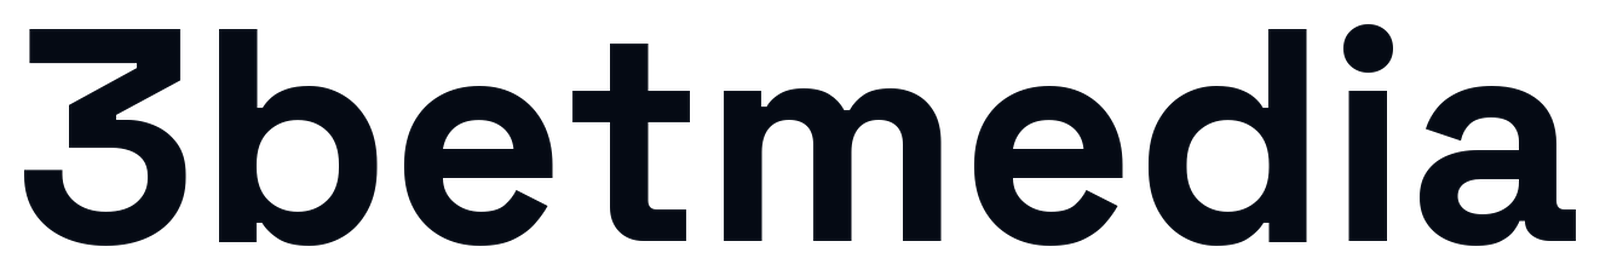
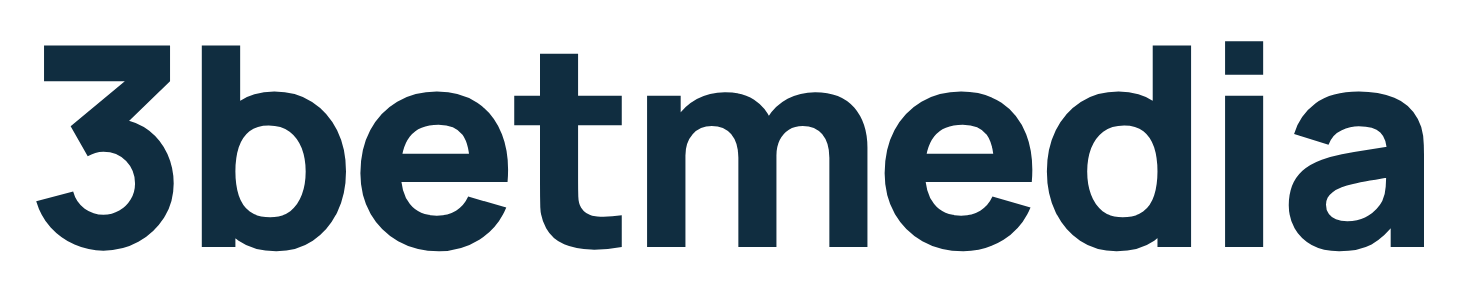
Rebrand press kit to the ice identity
Manrope wordmark, ice palette, ice chip and social card from the live site, current homepage copy and services.

diff --git a/index.html b/index.html
@@ -4,99 +4,153 @@
 <meta charset="utf-8">
 <meta name="viewport" content="width=device-width, initial-scale=1">
 <title>3betmedia Press Kit</title>
-<meta name="description" content="Press kit for 3betmedia, the iGaming and Web3 content agency. Logos, brand colours, services and contact.">
-<link rel="icon" href="assets/3betmedia-favicon.svg" type="image/svg+xml">
+<meta name="description" content="Press kit for 3betmedia, the content engine for iGaming and Web3. Logos, brand colours, services and contact.">
+<link rel="icon" href="assets/favicon-ice-v3-32.png" type="image/png" sizes="32x32">
+<link rel="apple-touch-icon" href="assets/apple-touch-icon-ice-v3.png">
 <link rel="canonical" href="https://bitmamba24.github.io/3betmedia-press-kit/">
 <meta property="og:title" content="3betmedia Press Kit">
-<meta property="og:description" content="Logos, brand colours, services and contact for 3betmedia, the iGaming and Web3 content agency.">
-<meta property="og:image" content="https://bitmamba24.github.io/3betmedia-press-kit/assets/social-card.png">
+<meta property="og:description" content="Logos, brand colours, services and contact for 3betmedia, the content engine for iGaming and Web3.">
+<meta property="og:image" content="https://bitmamba24.github.io/3betmedia-press-kit/assets/social-card.jpg">
 <link rel="preconnect" href="https://fonts.googleapis.com">
-<link href="https://fonts.googleapis.com/css2?family=Space+Grotesk:wght@600;700&family=Geist:wght@400;500&display=swap" rel="stylesheet">
+<link rel="preconnect" href="https://fonts.gstatic.com" crossorigin>
+<link href="https://fonts.googleapis.com/css2?family=Manrope:wght@400;500;600;700;800&display=swap" rel="stylesheet">
 <style>
-  :root { --bg:#050A14; --bg2:#0B1421; --card:#111E2F; --fg:#F2F6FA; --muted:#B9CADC; --steel:#8FA1B5; --line:#263447; --accent:#C3DCF0; --ink:#061020; }
+  :root { --bg:#e8f0f3; --panel:#f3f6f5; --card:#f3f8fa; --fg:#142c3b; --muted:#526675; --soft:#7191a2; --line:#9cb2bf55; --btn:#16374b; --btn-hover:#285774; --btn-fg:#f4fbff; --focus:#3b94c1; }
   * { box-sizing:border-box; }
-  body { margin:0; background:var(--bg); color:var(--fg); font:16px/1.6 Geist,system-ui,-apple-system,"Segoe UI",sans-serif; }
-  main { max-width:760px; margin:0 auto; padding:48px 16px 80px; }
-  h1, h2, h3 { font-family:"Space Grotesk",system-ui,sans-serif; letter-spacing:-0.02em; }
-  h1 { font-size:2.2rem; margin:28px 0 4px; }
-  h2 { font-size:1.2rem; margin:44px 0 12px; padding-top:18px; border-top:1px solid var(--line); }
-  h3 { font-size:1rem; margin:0 0 4px; }
+  body { margin:0; background:var(--bg); color:var(--fg); font:16px/1.6 Manrope,Arial,sans-serif; -webkit-font-smoothing:antialiased; }
+  a { color:inherit; }
+  a:focus-visible { outline:3px solid var(--focus); outline-offset:4px; }
+  header { display:flex; justify-content:space-between; align-items:center; gap:16px; padding:28px 5.5vw; }
+  .wordmark { font-size:32px; font-weight:800; letter-spacing:-1px; text-decoration:none; }
+  .nav-contact { padding:11px 17px; border:1px solid #18354845; border-radius:2px; font-size:13px; font-weight:600; text-decoration:none; }
+  main { max-width:880px; margin:0 auto; padding:40px 16px 80px; }
+  .eyebrow { font-size:10px; letter-spacing:.14em; font-weight:700; text-transform:uppercase; margin:0 0 18px; }
+  h1, h2 { font-weight:500; letter-spacing:-.06em; line-height:1.02; margin:0; }
+  h1 { font-size:clamp(46px,8vw,88px); }
+  h2 { font-size:clamp(30px,4.4vw,48px); margin:0 0 22px; }
+  h2 span { color:var(--soft); }
+  h3 { font-weight:600; letter-spacing:-.03em; font-size:20px; margin:0 0 8px; }
   p { margin:0 0 14px; }
-  .lede { color:var(--muted); font-size:1.15rem; }
-  a { color:var(--accent); }
-  .cta { display:inline-block; background:var(--accent); color:var(--ink); padding:10px 20px; border-radius:999px; text-decoration:none; font-weight:600; }
-  .services { display:grid; grid-template-columns:repeat(auto-fill,minmax(220px,1fr)); gap:12px; }
-  .services div { background:var(--bg2); border:1px solid var(--line); border-radius:12px; padding:14px; min-width:0; }
-  .services p { color:var(--muted); font-size:.92rem; margin:0; }
-  .assets { display:grid; grid-template-columns:repeat(auto-fill,minmax(160px,1fr)); gap:12px; }
-  .assets a { display:block; background:var(--card); border:1px solid var(--line); border-radius:12px; padding:12px; text-decoration:none; color:var(--fg); font-size:.9rem; min-width:0; }
-  .assets a.light { background:#F2F6FA; color:var(--ink); }
-  .assets img { width:100%; height:80px; object-fit:contain; display:block; margin-bottom:8px; }
-  .swatches { display:grid; grid-template-columns:repeat(auto-fill,minmax(130px,1fr)); gap:10px; }
-  .swatches div { border:1px solid var(--line); border-radius:10px; overflow:hidden; font-size:.85rem; min-width:0; }
-  .swatches span { display:block; height:44px; }
-  .swatches p { margin:0; padding:6px 10px; color:var(--muted); }
-  dl { display:grid; grid-template-columns:max-content 1fr; gap:6px 16px; margin:0; }
-  dt { color:var(--steel); }
+  .lede { font-size:17px; max-width:520px; margin:26px 0 30px; color:var(--muted); }
+  .ice-button { display:inline-flex; gap:32px; align-items:center; background:var(--btn); color:var(--btn-fg); padding:17px 24px; font-size:13px; font-weight:600; text-decoration:none; transition:background .2s; }
+  .ice-button:hover { background:var(--btn-hover); }
+  .hero { display:grid; grid-template-columns:1.3fr 1fr; gap:24px; align-items:center; }
+  .hero img { width:100%; height:auto; min-width:0; }
+  section { margin-top:96px; padding-top:28px; border-top:1px solid var(--line); }
+  .stats { display:grid; grid-template-columns:repeat(4,1fr); gap:18px; }
+  .stats div { min-width:0; }
+  .stats b { display:block; font-size:clamp(30px,4vw,44px); font-weight:500; letter-spacing:-.05em; }
+  .stats span { font-size:12px; color:var(--muted); }
+  .services { display:grid; grid-template-columns:repeat(auto-fill,minmax(250px,1fr)); gap:16px; }
+  .services div { background:var(--card); border:1px solid #fff; box-shadow:0 16px 32px #31516913; padding:22px; min-width:0; }
+  .services p { font-size:14px; color:var(--muted); margin:0 0 10px; }
+  .services small { font-size:11px; font-weight:700; color:var(--fg); }
+  .muted { color:var(--muted); }
+  .assets { display:grid; grid-template-columns:repeat(auto-fill,minmax(170px,1fr)); gap:14px; }
+  .assets a { display:block; background:var(--card); border:1px solid #fff; padding:14px; text-decoration:none; font-size:13px; font-weight:600; min-width:0; }
+  .assets a.dark { background:#071b2a; color:#f0f8fb; border-color:#071b2a; }
+  .assets img { width:100%; height:90px; object-fit:contain; display:block; margin-bottom:10px; }
+  .swatches { display:grid; grid-template-columns:repeat(auto-fill,minmax(140px,1fr)); gap:12px; }
+  .swatches div { background:var(--card); border:1px solid #fff; min-width:0; font-size:12px; }
+  .swatches span { display:block; height:52px; }
+  .swatches p { margin:0; padding:8px 10px; color:var(--muted); }
+  dl { display:grid; grid-template-columns:max-content 1fr; gap:8px 20px; margin:0; font-size:15px; }
+  dt { color:var(--soft); }
   dd { margin:0; min-width:0; overflow-wrap:anywhere; }
-  footer { margin-top:56px; color:var(--steel); font-size:.9rem; }
+  footer { display:flex; justify-content:space-between; gap:16px; flex-wrap:wrap; padding:36px 5.5vw; font-size:11px; color:#68808e; border-top:1px solid var(--line); margin-top:96px; }
+  @media (max-width:700px) {
+    header { padding:22px 16px; }
+    .wordmark { font-size:28px; }
+    .hero { grid-template-columns:1fr; }
+    .hero img { max-width:280px; }
+    .stats { grid-template-columns:repeat(2,1fr); }
+    section { margin-top:64px; }
+  }
 </style>
 </head>
 <body>
+<header>
+  <a class="wordmark" href="https://3betmedia.com/">3betmedia</a>
+  <a class="nav-contact" href="mailto:info@3betmedia.com">Press contact</a>
+</header>
 <main>
-  <img src="assets/3betmedia-wordmark-light.png" alt="3betmedia" width="200" style="height:auto">
-  <h1>3betmedia Press Kit</h1>
-  <p class="lede">Put your brand in play. Content agency for iGaming and Web3.</p>
-  <p><a class="cta" href="https://3betmedia.com/">Visit 3betmedia.com</a></p>
-
-  <h2>About 3betmedia</h2>
-  <p><a href="https://3betmedia.com/">3betmedia</a> is a content agency for iGaming and Web3 brands. It runs creator partnerships, KOL campaigns, UGC, short-form video, clipping and AI video for casinos, slots, prediction markets and Web3 projects.</p>
-  <p>The team handles the whole chain, from finding the right creators and writing the brief to production, distribution and reporting. Creators. Content. Distribution.</p>
-
-  <h2>Services</h2>
-  <div class="services">
-    <div><h3>Creator partnerships</h3><p>Creator sourcing, campaign management and streamer partnerships.</p></div>
-    <div><h3>KOL campaigns</h3><p>KOL strategy, outreach and reporting across X, YouTube and Telegram.</p></div>
-    <div><h3>UGC production</h3><p>Creative concepts, creator videos and hook testing.</p></div>
-    <div><h3>Short-form video</h3><p>Platform-ready videos for TikTok, Instagram Reels and YouTube Shorts.</p></div>
-    <div><h3>Clipping and distribution</h3><p>Stream highlights, clip production and creator distribution.</p></div>
-    <div><h3>AI video</h3><p>Concept development and AI-assisted production with human creative direction.</p></div>
-  </div>
-  <p style="margin-top:14px">Read more on <a href="https://3betmedia.com/services/casino-streamer-marketing">casino streamer marketing</a>.</p>
-
-  <h2>Fact sheet</h2>
-  <dl>
-    <dt>Name</dt><dd>3betmedia</dd>
-    <dt>Website</dt><dd><a href="https://3betmedia.com/">3betmedia.com</a></dd>
-    <dt>Category</dt><dd>iGaming marketing, Web3 marketing, creator and influencer agency</dd>
-    <dt>Tagline</dt><dd>Put your brand in play.</dd>
-    <dt>Contact</dt><dd><a href="mailto:info@3betmedia.com">info@3betmedia.com</a></dd>
-  </dl>
-
-  <h2>Logos and images</h2>
-  <div class="assets">
-    <a href="assets/3betmedia-wordmark-light.png" download><img src="assets/3betmedia-wordmark-light.png" alt="">Wordmark, light PNG</a>
-    <a class="light" href="assets/3betmedia-wordmark-dark.png" download><img src="assets/3betmedia-wordmark-dark.png" alt="">Wordmark, dark PNG</a>
-    <a href="assets/3betmedia-wordmark-light.svg" download><img src="assets/3betmedia-wordmark-light.png" alt="">Wordmark, light SVG</a>
-    <a class="light" href="assets/3betmedia-wordmark-dark.svg" download><img src="assets/3betmedia-wordmark-dark.png" alt="">Wordmark, dark SVG</a>
-    <a href="assets/3betmedia-mark.svg" download><img src="assets/3betmedia-mark.svg" alt="">Mark, SVG</a>
-    <a href="assets/chip-face.webp" download><img src="assets/chip-face.webp" alt="">Chip, 1024 WebP</a>
-    <a href="assets/social-card.png" download><img src="assets/social-card.png" alt="">Social card, 1200x630</a>
-    <a href="assets/3betmedia-palette.svg" download><img src="assets/3betmedia-palette.svg" alt="">Palette sheet</a>
+  <div class="hero">
+    <div>
+      <p class="eyebrow">Press kit · iGaming and Web3</p>
+      <h1>Your Content Engine</h1>
+      <p class="lede">3betmedia creates UGC, AI content and clips, and partners with KOLs, influencers and streamers to reach the right audience, build trust and drive sign-ups.</p>
+      <a class="ice-button" href="https://3betmedia.com/">Visit 3betmedia.com <span aria-hidden="true">↗</span></a>
+    </div>
+    <img src="assets/ice-chip-1024.png" alt="3betmedia ice poker chip" width="1024" height="1024">
   </div>
 
-  <h2>Colours and type</h2>
-  <div class="swatches">
-    <div><span style="background:#050A14"></span><p>Midnight #050A14</p></div>
-    <div><span style="background:#0B1421"></span><p>Deep Navy #0B1421</p></div>
-    <div><span style="background:#111E2F"></span><p>Navy #111E2F</p></div>
-    <div><span style="background:#F2F6FA"></span><p>Ice White #F2F6FA</p></div>
-    <div><span style="background:#C3DCF0"></span><p>Pale Blue #C3DCF0</p></div>
-    <div><span style="background:#8FA1B5"></span><p>Steel #8FA1B5</p></div>
-  </div>
-  <p style="margin-top:14px">Display and wordmark: Space Grotesk. Body: Geist.</p>
+  <section>
+    <p class="eyebrow">About</p>
+    <h2>Content that turns attention <span>into action.</span></h2>
+    <p class="muted"><a href="https://3betmedia.com/">3betmedia</a> is a content agency for iGaming and Web3 brands: casinos, slots, prediction markets and Web3 projects. From the first script to the creator who posts it, it builds a content pipeline around each brand, planning what to say, who says it and where it appears together.</p>
+  </section>
 
-  <footer>&copy; 2026 <a href="https://3betmedia.com/">3betmedia</a></footer>
+  <section>
+    <p class="eyebrow">A content engine built for scale</p>
+    <div class="stats">
+      <div><b>200+</b><span>Campaigns delivered</span></div>
+      <div><b>50K</b><span>Creators in the network</span></div>
+      <div><b>50K+</b><span>UGC pieces managed</span></div>
+      <div><b>1B</b><span>Content views</span></div>
+    </div>
+  </section>
+
+  <section>
+    <p class="eyebrow">Services</p>
+    <h2>More content, <span>with a clear purpose.</span></h2>
+    <div class="services">
+      <div><h3>UGC content</h3><p>Creator-led videos that explain the offer in a voice the audience recognises.</p><small>Creator sourcing, scripts and short-form production</small></div>
+      <div><h3>AI content</h3><p>AI-assisted video and visual production for campaigns that need more creative options.</p><small>Faceless video, visual concepts and creative variations</small></div>
+      <div><h3>Clipping</h3><p>Streams, podcasts and long-form videos turned into platform-ready clips.</p><small>Highlight selection, editing, captions and distribution</small></div>
+      <div><h3>KOLs and influencers</h3><p>Relevant audiences reached through creators who understand iGaming and Web3.</p><small>Creator matching, outreach and campaign coordination</small></div>
+      <div><h3>Streamers</h3><p>Brands brought into live conversations with relevant streamers.</p><small>Streamer sourcing, live activations and highlight content</small></div>
+      <div><h3>Memes</h3><p>Memes built around the humour and references the audience already shares.</p><small>Meme strategy, creative production and social distribution</small></div>
+    </div>
+  </section>
+
+  <section>
+    <p class="eyebrow">Fact sheet</p>
+    <dl>
+      <dt>Name</dt><dd>3betmedia (one word, lowercase)</dd>
+      <dt>Website</dt><dd><a href="https://3betmedia.com/">3betmedia.com</a></dd>
+      <dt>Category</dt><dd>iGaming and Web3 content agency: UGC, AI content, clipping, KOLs, streamers, memes</dd>
+      <dt>Headline</dt><dd>Your Content Engine for iGaming and Web3</dd>
+      <dt>Contact</dt><dd><a href="mailto:info@3betmedia.com">info@3betmedia.com</a></dd>
+    </dl>
+  </section>
+
+  <section>
+    <p class="eyebrow">Logos and images</p>
+    <div class="assets">
+      <a href="assets/3betmedia-wordmark-dark.png" download><img src="assets/3betmedia-wordmark-dark.png" alt="">Wordmark, for light backgrounds</a>
+      <a class="dark" href="assets/3betmedia-wordmark-light.png" download><img src="assets/3betmedia-wordmark-light.png" alt="">Wordmark, for dark backgrounds</a>
+      <a href="assets/ice-chip-1024.png" download><img src="assets/ice-chip-1024.png" alt="">Ice chip, 1024 PNG</a>
+      <a href="assets/apple-touch-icon-ice-v3.png" download><img src="assets/apple-touch-icon-ice-v3.png" alt="">App icon, 180 PNG</a>
+      <a href="assets/social-card.jpg" download><img src="assets/social-card.jpg" alt="">Social card, 1200x630</a>
+    </div>
+  </section>
+
+  <section>
+    <p class="eyebrow">Colours and type</p>
+    <div class="swatches">
+      <div><span style="background:#e9f2f6"></span><p>Background #E9F2F6</p></div>
+      <div><span style="background:#f3f6f5"></span><p>Surface #F3F6F5</p></div>
+      <div><span style="background:#102d40"></span><p>Text #102D40</p></div>
+      <div><span style="background:#16374b"></span><p>Button #16374B</p></div>
+      <div><span style="background:#7191a2"></span><p>Muted #7191A2</p></div>
+      <div><span style="background:#071b2a"></span><p>Dark section #071B2A</p></div>
+    </div>
+    <p class="muted" style="margin-top:16px">Typeface: Manrope. Wordmark in ExtraBold (800), headlines in Medium (500) with tight tracking.</p>
+  </section>
 </main>
+<footer>
+  <span>© 2026 <a href="https://3betmedia.com/">3betmedia</a></span>
+  <span>Your content engine for iGaming and Web3</span>
+</footer>
 </body>
 </html>

diff --git a/README.md b/README.md
@@ -1,8 +1,8 @@
 # 3betmedia Press Kit
 
-Logos, brand colours, services and contact for [3betmedia](https://3betmedia.com/), the iGaming and Web3 content agency.
+Logos, brand colours, services and contact for [3betmedia](https://3betmedia.com/), the content engine for iGaming and Web3.
 
-3betmedia runs creator partnerships, KOL campaigns, UGC, short-form video, clipping and AI video for casinos, slots, prediction markets and Web3 brands.
+3betmedia creates UGC, AI content and clips, and partners with KOLs, influencers and streamers to reach the right audience, build trust and drive sign-ups.
 
 - Website: https://3betmedia.com/
 - Press kit page: https://bitmamba24.github.io/3betmedia-press-kit/
@@ -12,13 +12,12 @@ Logos, brand colours, services and contact for [3betmedia](https://3betmedia.com
 
 | File | Use |
 |---|---|
-| `assets/3betmedia-wordmark-light.svg` / `.png` | Wordmark for dark backgrounds |
-| `assets/3betmedia-wordmark-dark.svg` / `.png` | Wordmark for light backgrounds |
-| `assets/3betmedia-mark.svg` | Compact mark |
-| `assets/chip-face.webp` | Branded chip, 1024x1024 |
-| `assets/social-card.png` | Social card, 1200x630 |
-| `assets/3betmedia-palette.svg` | Colour palette |
+| `assets/3betmedia-wordmark-dark.png` | Wordmark for light backgrounds (transparent, 1460x290) |
+| `assets/3betmedia-wordmark-light.png` | Wordmark for dark backgrounds (transparent, 1460x290) |
+| `assets/ice-chip-1024.png` | Ice poker chip, transparent 1024x1024 |
+| `assets/apple-touch-icon-ice-v3.png` | App icon, 180x180 |
+| `assets/social-card.jpg` | Social card, 1200x630 |
 
-Type: Space Grotesk (display), Geist (body).
+Typeface: Manrope (wordmark 800, headlines 500). Colours: #E9F2F6 background, #102D40 text, #16374B buttons, #7191A2 muted, #071B2A dark sections.
 
 © 2026 3betmedia
